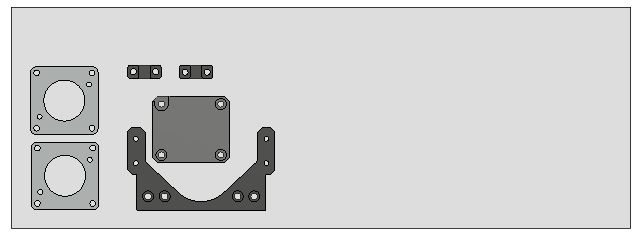
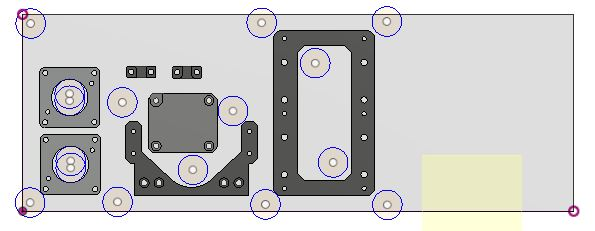
Alu spindle mount

diff --git a/humphrey-large-format-cnc/alu_parts.md b/humphrey-large-format-cnc/alu_parts.md
@@ -46,6 +46,10 @@ Practically the work will be split up into one piece per session since they take
 
 ![Alu parts](./img/parts/2_motor_plates_z_homeing_plate.JPG)
 
+**NOTE** Alu spindle mount needs to be fitted to the spindle bolt pattern, measure to be safe!
+
+![Alu parts](./img/parts/spindle_mount.jpg)s
+
 ## How to mill aluminium parts
 
 We use VHF single flute milling bits for milling aluminium dry, that is without cooling. Always use new bits or bits that are only used in aluminium.
